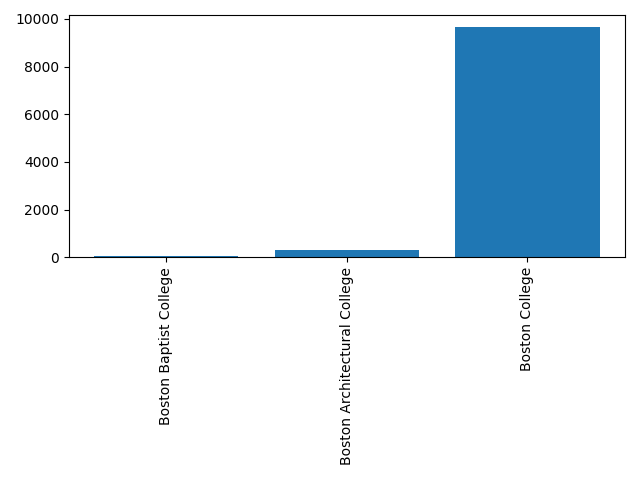
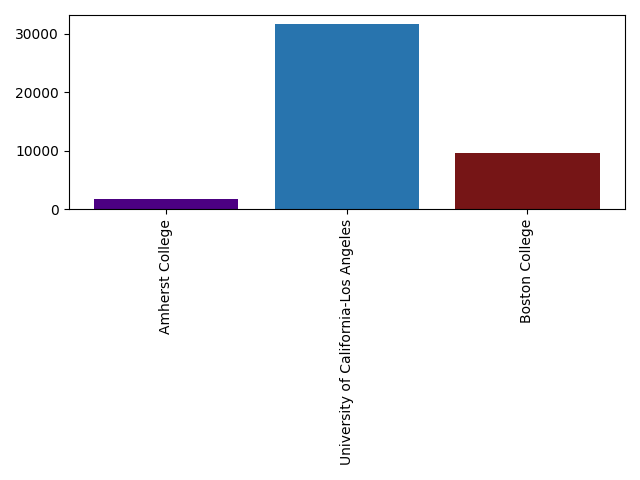
Added college colors to bar graph display

diff --git a/app.py b/app.py
@@ -18,7 +18,8 @@ from pandas import read_excel
 import os
 import matplotlib.pyplot as plt
 import numpy as np
-
+from PIL import Image
+ 
 HOST = '0.0.0.0'
 DEBUG = True
 
@@ -138,7 +139,6 @@ def makegraphoptions():
     '''
     for x in range(3250):
         x = df.iloc[x][0]
-        print(x)
         try:
             x = x.split(",")
             category = x[1].split(".")
@@ -183,12 +183,13 @@ def addfavorite(userid,collegeid):
 @app.route("/graphshow", methods=["GET"])
 def showgraph():
     colleges=[]
-    colleges.append("032483")
-    colleges.append("003966")
+    colleges.append("002115")
+    colleges.append("001315")
     colleges.append("002128")
     colleges=getinfo(colleges)
     data=getgraphdata(colleges,"student","size")
-    if (savegraph(data[0],data[1])==0):
+    color=getgraphcolors(colleges)
+    if (savegraph(data[0],data[1],color)==0):
         return "<img src=\"/static/my_plot.png\"/>"
     else:
         return "<h1>This failed fam. </h1>"
@@ -270,23 +271,34 @@ def getgraphdata(colleges,category,attribute):
             pass
     return(x,height)
 
-def savegraph(x, height):
-    '''
-    x=[]
-    height=[]
+def getgraphcolors(colleges):
+    colors=[]
     for college in colleges:
         college=college["latest"]
         try:
-            ht=int(college[category][attribute])
-            height.append(ht)
-            x.append(college["school"]["name"])
+            imgurl=college["school"]["school_url"]
+            if(imgurl[0:4]!="http"):
+                imgurl="https://"+imgurl
+            print(imgurl)
+            color=getfaviconcolor(imgurl)
+            if(color[0:3]!=[255,255,255]):
+                color1=[]
+                for x in range(len(color)):
+                    color1.append(color[x]/255.0)
+                colors.append(color1)
+            else:
+                colors.append([0.0, 0.0, 0.0])
         except:
-            pass
-    '''
-    plt.bar(x=x,height=height)
+            colors.append([0.0, 0.0, 0.0])
+    print(colors)
+    return colors
+
+
+def savegraph(x, height,color):
+    plt.bar(x=x,height=height,color=color)
     plt.xticks(rotation=90)
     plt.tight_layout()
-    plt.savefig("my_plot.png")
+    plt.savefig("static/my_plot.png")
     return 0
 
 
@@ -301,13 +313,47 @@ def bargraph(x,height):
 
 
 
-def getfavicon(url):
+
+def getfaviconcolor(url):
     icons = favicon.get(url)
     icon = icons[0]
     response = requests.get(icon.url, stream=True)
-    with open('D:/School/CampusNow/tmp/python-favicon.{}'.format(icon.format), 'wb') as image:
-        return response
+    #with open('tmp/favicon.{}'.format(icon.format), 'wb') as image:
+    with open('tmp/favicon.png', 'wb') as image:
+        for chunk in response.iter_content(1024):
+            image.write(chunk)
+    #with Image.open('tmp/favicon.{}'.format(icon.format)) as pil_img:
+    with Image.open('tmp/favicon.png') as pil_img:
+        img = pil_img.copy()
+         # Reduce colors (uses k-means internally)
+        paletted = img.convert('P', palette=Image.ADAPTIVE, colors=16)
+        # Find the color that occurs most often
+        palette = paletted.getpalette()
+        color_counts = sorted(paletted.getcolors(), reverse=True)
+        palette_index = color_counts[0][1]
+        dominant_color = palette[palette_index*3:palette_index*3+3]
+        print(dominant_color)
+        return dominant_color
 
+
+        '''
+        img = pil_img.copy()
+
+
+
+        img = img.convert("RGBA")
+        img = img.resize((1, 1), resample=0)
+        dominant_color = img.getpixel((0, 0))
+        return dominant_color
+
+    
+    pil_img=Image.open(icon,mode='r',formats=None)
+    img=pil_image.copy()
+    img=img.convert("RGBA")
+    img=img.resize((1,1),resample=0)
+    dominant_color=img.getpixel((0,0))
+    return dominant_color
+    '''
 if __name__== '__main__':
     models.initialize()
     try:
@@ -318,3 +364,4 @@ if __name__== '__main__':
     except ValueError:
         pass
     app.run(host = HOST,debug = DEBUG) 
+    
